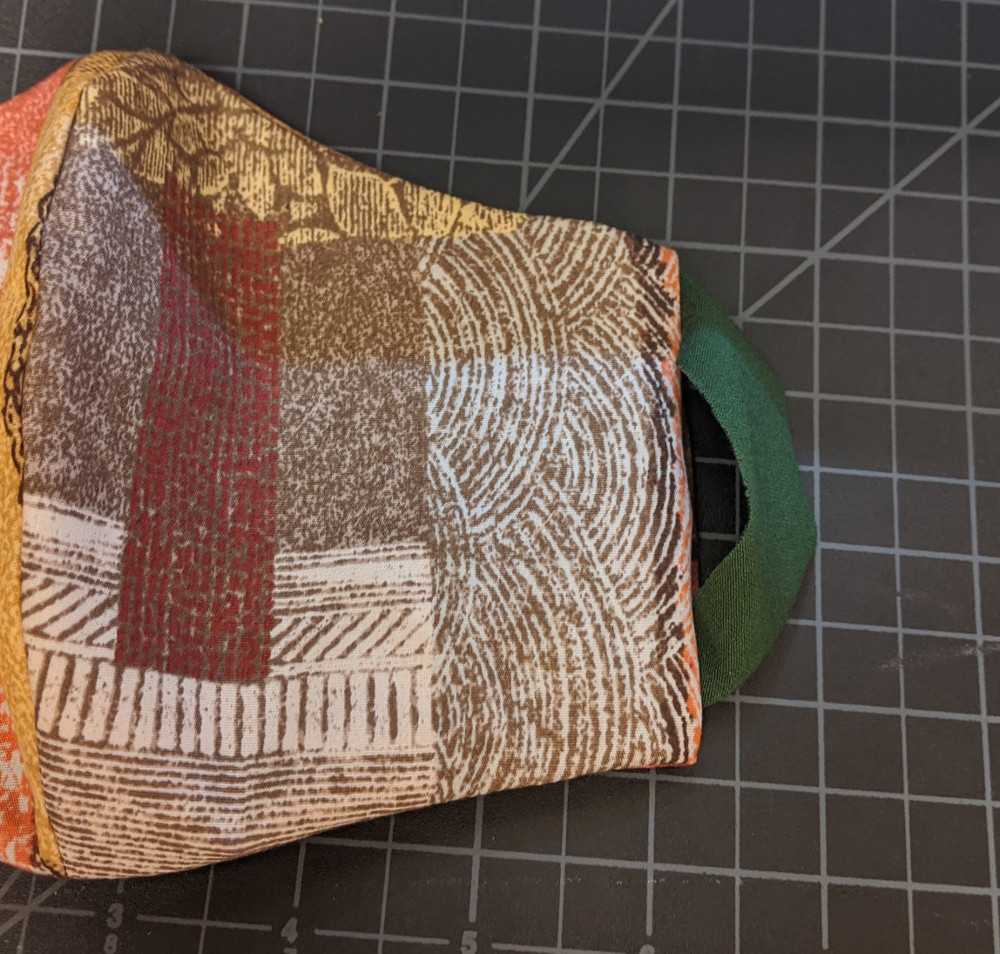
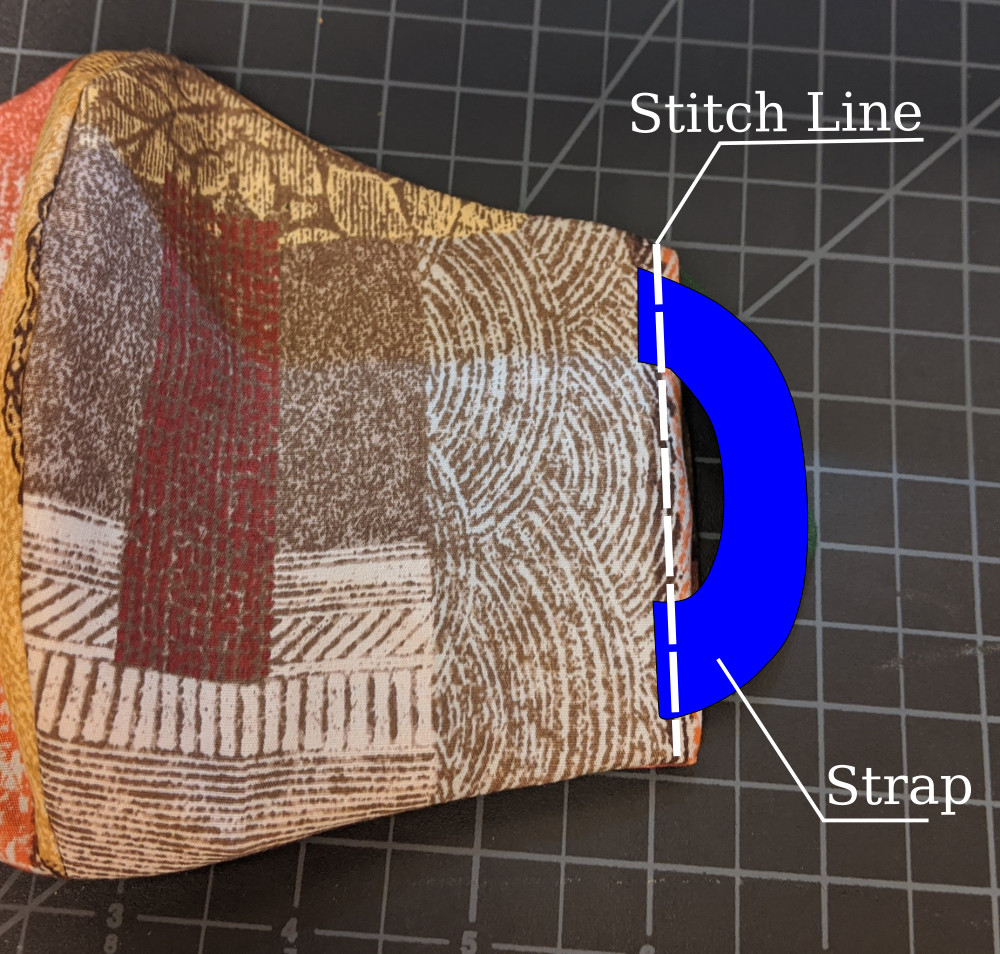
Added corrections

Changed region(s): [[0.62, 0.2128, 0.806, 0.7904], [0.62, 0.0912, 0.93, 0.2128], [0.775, 0.7904, 0.992, 0.8816]]

diff --git a/alohamask.org/content/instructions/sewing/olson/index.md b/alohamask.org/content/instructions/sewing/olson/index.md
@@ -5,13 +5,21 @@ title: "Olson Mask Sewing Instructions"
 
 ### Olson Pattern
 
-The original Olson pattern PDF is available [on our GitHub](https://github.com/alohamask/design/raw/master/resources/olson_pattern_v3.pdf). AlohaMask Olson pattern is modified to save on fabric, and accommodate strap and ear loop attachment. 
 Before you start:
-- Make sure you read all of the instruction steps before you start.
-- Make sure your sewing machine is setup with correct tension.
-- Make sure your workplace is clean. 
+
+- Make sure your sewing machine is setup with correct tension. 
 - If you are pinning the pieces together, pin them at the seam allowance otherwise you might ruin the mask.
- 
+- Please sanitize any work surfaces before assembly of any mask kits.
+- Please wear a mask while assembling kits; you may use the first mask in your kit for this purpose.
+- Please let us know if any clarification is needed, if you are having trouble so is someone else. That means our instructions need work.
+- Please maintain social distancing of 6 feet or greater at all times.
+- Please return all assembled masks to the bag the materials came in.
+- After you have finished sewing all the masks in your kit, please contact the Volunteer Coordinator via either email or text message, who will then arrange for the kits to be picked up by a Delivery Volunteer.
+- Please coordinate with the Delivery Volunteer to leave the kits in a safe place for them after you have verified they are outside to pick it up; please keep the completed masks indoors until they arrive to pick it up.
+- Please wash your hands before and after handling any boxes or materials; all goods will be provided to you in initially sanitary bags,and want to do our best to keep things as close to sterile as possible in the sewing environments.
+- __If at ANY point you are feeling ill or sick, please cease work and contact the Volunteer Coordinator ASAP.__
+
+
 There are three main pieces to the Olson mask. We will refer to them as shown in the picture below:
 
 {{< figureCupper
@@ -20,8 +28,12 @@ caption="Olson Mask pieces"
 command="Resize" 
 options="700x" >}}
 
+- Piece 1 makes up the front of the mask.
+- Piece 2 makes up the back of the mask and the filter pocket.
+- Phase 3 makes up the sides of the mask and the attachment points for the straps or ear loops.
+
 #### Step 1:
-Take two mirror pieces (#1 above) and align them right sides together.
+Take two mirror front pieces (#1 above) and align them right sides together.
 
 {{< figureCupper
 img="step2.jpg" 
@@ -38,7 +50,7 @@ command="Resize"
 options="700x" >}}
 
 #### Step 2:
-Repeat step 1, this time sewing together the pieces shown as #2 above. After completing steps 1 and 2, you should end up with two pieces that look like this:
+Repeat step 1, this time sewing together the front pieces. After completing steps 1 and 2, you should end up with two pieces that look like this:
 
 {{< figureCupper
 img="step4.jpg" 
@@ -47,7 +59,7 @@ command="Resize"
 options="700x" >}}
 
 #### Step 3:
-Starting from the piece you made in Step 2. Fold the straight edges towards the wrong side and stitch them to prevent fraying:
+Starting from the **Back** piece you made in Step 2. Fold the straight edges towards the wrong side and stitch them to prevent fraying:
 
 {{< figureCupper
 img="step5.jpg" 
@@ -64,11 +76,19 @@ command="Resize"
 options="700x" >}}
 
 #### Step 4:
-Now take piece you made in Step 3 and Step 1. Align them right sides together:
+Now take the **Front** and **Back** pieces. Turn the **Front** piece right side out.  Turn the The **Front** and **Back** are nesting in each other, printed layers together. 
  
 {{< figureCupper
  img="step8.jpg" 
- caption="Align pieces."
+ caption="Align pieces. along the two stitch lines."
+ command="Resize" 
+options="700x" >}}
+
+Notice how the printed sides of the fabric are together.
+
+{{< figureCupper
+ img="step8.5.jpg" 
+ caption="Aligned Pieces."
  command="Resize" 
 options="700x" >}}
 
@@ -106,7 +126,7 @@ You will end up with a piece that looks like this:
 options="700x" >}}
 
 #### Step 6:
-Next we will attach pattern piece 3 to the result of Step 5. Align the straight edges of the two pieces as shown below: 
+Next we will attach the **Side** to the result of Step 5. Align the straight edges of the two pieces as shown below: 
    
 {{< figureCupper
  img="step13.jpg" 
@@ -145,36 +165,6 @@ options="700x" >}}
 options="700x" >}}
 
 #### Step 7:
-Turn your mask inside out. It should look like this:
-
-{{< figureCupper
- img="step19.jpg" 
- caption="Result of step 7.(Back)"
- command="Resize" 
-options="700x" >}}
-
-{{< figureCupper
- img="step20.jpg" 
- caption="Result of step 7.(Front)"
- command="Resize" 
-options="700x" >}}
-
-#### Step 8:
-Fold the edges of the mask:
-
-{{< figureCupper
- img="step22.jpg" 
- caption="Folding the sides of the mask."
- command="Resize" 
-options="700x" >}}
-
-{{< figureCupper
- img="step21.jpg" 
- caption="Result of step 8."
- command="Resize" 
-options="700x" >}}
-
-#### Step 9:
 
 Kits will be delivered with ties or ear loops. There will be 40 ties with each kit, or an 80 inch strip of 1 inch knit stretchy material for making ear loops.
 
@@ -188,7 +178,44 @@ If your mask came with stretchy ear loops continue with these instructions. Cut 
  command="Resize" 
 options="700x" >}}
 
-#### Step 10:
+
+
+### Attaching the Ear loops:
+There are two different ways of attaching ear loops. Make sure you read both and choose the one you are most comfortable with:
+
+#### First method of attaching ear loops.
+
+#### Step 1:
+Turn your mask inside out. It should look like this:
+
+{{< figureCupper
+ img="step19.jpg" 
+ caption="Result of step 1.(Back)"
+ command="Resize" 
+options="700x" >}}
+
+{{< figureCupper
+ img="step20.jpg" 
+ caption="Result of step 1.(Front)"
+ command="Resize" 
+options="700x" >}}
+
+#### Step 2:
+Fold the edges of the mask:
+
+{{< figureCupper
+ img="step22.jpg" 
+ caption="Folding the sides of the mask."
+ command="Resize" 
+options="700x" >}}
+
+{{< figureCupper
+ img="step21.jpg" 
+ caption="Result of step 2."
+ command="Resize" 
+options="700x" >}}
+
+#### Step 3:
 
 Place the ear loops into the folded edges of the mask:
 
@@ -206,8 +233,21 @@ You can pin the ear loops in place without compromising the mask, but you will f
  command="Resize" 
 options="700x" >}}
 
-#### Step 11:
-Congratulations, you are Done! A first mask may take 30 minutes or so, but once you get comfortable with the pattern and these steps, you can cut that time down to 10-15 minutes. Here is a picture of what your mask should look like:
+### Alternative way of adding ear loops:
+
+Once you finish Step 6, before turning the mask inside out place the cut ribbon between the **Front** and **Side** pieces as shown below. Make sure the ribbon is folded 
+
+{{< figureCupper
+ img="step28.jpg" 
+ caption="Place the ear loops into the mask."
+ command="Resize" 
+options="700x" >}}
+
+Stitch at the white dashed lines to close the edges of the mask. Be careful to catch ONLY the ends of the knit strip while you stitch the sides closed.  Back stitch several times at the knit strip ends to reinforce.
+After stitching the edges closed, turn the mask rightside out. Mask is done.
+
+#### You are done!
+Congratulations, you finished a mask! A first mask may take 30 minutes or so, but once you get comfortable with the pattern and these steps, you can cut that time down to 10-15 minutes. Here is a picture of what your mask should look like:
 
 {{< figureCupper
  img="step26.jpg" 
@@ -221,6 +261,7 @@ options="700x" >}}
  command="Resize" 
 options="700x" >}}
 
+
 ### Adding a nose clamp:
 
 Only add a nose clamp if your kit came with them. Some hospitals will add it on site. Nose clamp directions are found here [here]({{< ref "/instructions/sewing/nose_bridge" >}})
@@ -229,4 +270,5 @@ Only add a nose clamp if your kit came with them. Some hospitals will add it on 
 Once you are comfortable with the pattern, consider chain stitching the pieces together. This will make sewing mask much faster and save on thread. Check out these awesome directions one of our sewing volunteers put together:
 {{<youtube 9Mh6Zjiwzyw>}} 
 
-
+### Resources:
+The original Olson pattern PDF is available [on our GitHub](https://github.com/alohamask/design/raw/master/resources/olson_pattern_v3.pdf). AlohaMask Olson pattern is modified to save on fabric, and accommodate strap and ear loop attachment. 

diff --git a/alohamask.org/content/_index.md b/alohamask.org/content/_index.md
@@ -9,7 +9,10 @@ Welcome to **alohamask**: an attempt to bring together like-minded volunteers fo
 
 To learn more, click one of the links on the left. 
 
+# Olson sewing instructions [here]({{<ref "instructions/sewing/olson">}})
+
 ##### Latest News
+* [20 April 2020. Olson instructions have been updated.]({{<ref "instructions/sewing/olson">}})
 * [18 April 2020. Thank you to everyone who donated.]({{<ref "news/donations/">}})
 * [17 April 2020. Olson instructions have been updated.]({{<ref "instructions/sewing/olson">}})
 * [12 April 2020. Adding a nose wire to a cloth mask.]({{<ref "instructions/sewing/nose_bridge.md">}})
